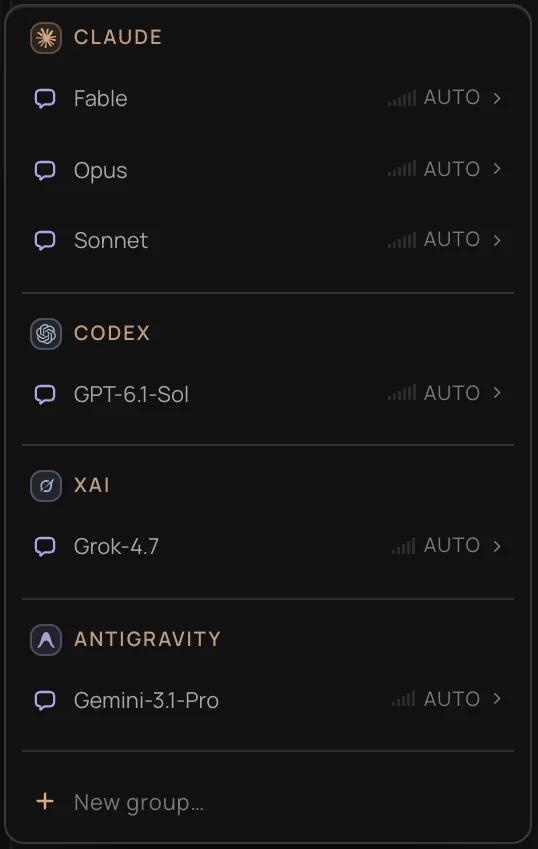
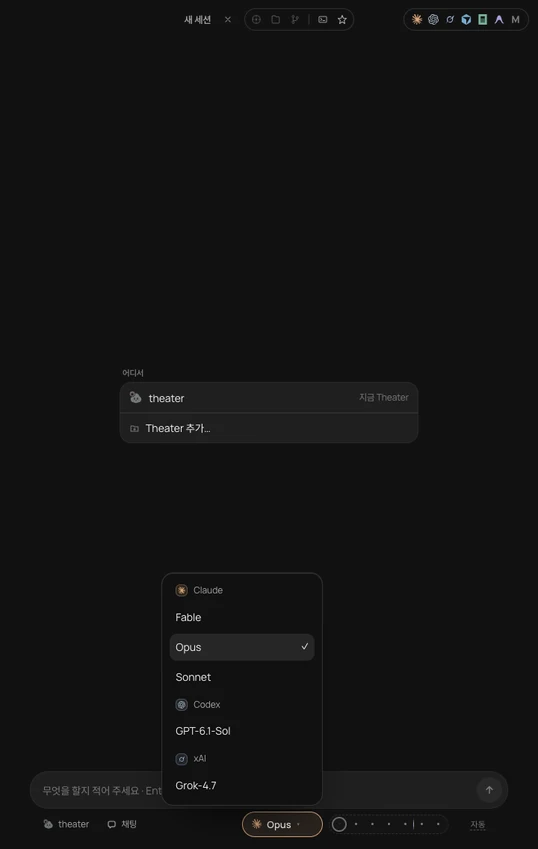
docs: show the new-session model menu in the gateway figure
The Theater launch menu is gone. The heading, alt text, and figure now
match the model menu on the new session screen.

diff --git a/docs/index.html b/docs/index.html
@@ -435,7 +435,7 @@ footer .shell { display: flex; flex-wrap: wrap; justify-content: space-between; 
     <div class="shell">
       <div class="sec-head rv">
         <span class="kicker">AI Gateway</span>
-        <h2 class="h2"><span lang="en">Every frontier model, <em>behind one launch menu.</em></span><span lang="ko">런치 메뉴 하나 뒤의 <em>모든 프런티어 모델.</em></span></h2>
+        <h2 class="h2"><span lang="en">Every frontier model, <em>behind one model menu.</em></span><span lang="ko">모델 메뉴 하나 뒤의 <em>모든 프런티어 모델.</em></span></h2>
         <p lang="en">The gateway is a local Claude Code endpoint, not an API proxy. Claude Code keeps its native agent loop and tools. Other vendors' credentials stay inside the Console and never enter the agent process, and Fleet reuses the sign-in you already have in each vendor's own CLI.</p>
         <p lang="ko">게이트웨이는 API 프록시가 아니라 로컬 Claude Code 엔드포인트입니다. Claude Code는 원래의 에이전트 루프와 도구를 그대로 쓰고, 다른 공급자의 자격증명은 콘솔 안에만 머물 뿐 에이전트 프로세스에는 들어가지 않습니다. 로그인은 각 공급자 CLI에 이미 해 둔 것을 그대로 씁니다.</p>
       </div>
@@ -467,8 +467,8 @@ footer .shell { display: flex; flex-wrap: wrap; justify-content: space-between; 
         <figure class="menu-fig rv" style="margin:0">
           <div class="frame">
             <img src="assets/console-launch-menu.webp" width="538" height="849" loading="lazy"
-                 alt="The launch menu: Claude's Fable, Opus and Sonnet, then enabled gateway models such as Codex GPT-6.1-Sol, xAI Grok-4.7 and Antigravity Gemini-3.1-Pro"
-                 data-alt-ko="런치 메뉴: Claude의 Fable, Opus, Sonnet 아래로 Codex GPT-6.1-Sol, xAI Grok-4.7, Antigravity Gemini-3.1-Pro 등 켜 둔 게이트웨이 모델" />
+                 alt="The new session screen with its model menu open: Claude's Fable, Opus and Sonnet, then Codex GPT-6.1-Sol and xAI Grok-4.7"
+                 data-alt-ko="모델 메뉴가 열린 새 세션 화면: Claude의 Fable, Opus, Sonnet 아래로 Codex GPT-6.1-Sol, xAI Grok-4.7" />
           </div>
           <figcaption>
             <span lang="en">Open it from the model chip on the new session screen (the <b>+</b> at the top of the sidebar) or <span class="kbd">⌘</span><span class="kbd">J</span>. Claude's models come first, then every gateway model you've enabled under Settings → AI Gateway. The same list appears in Claude Code's <code>/model</code> picker.</span>
